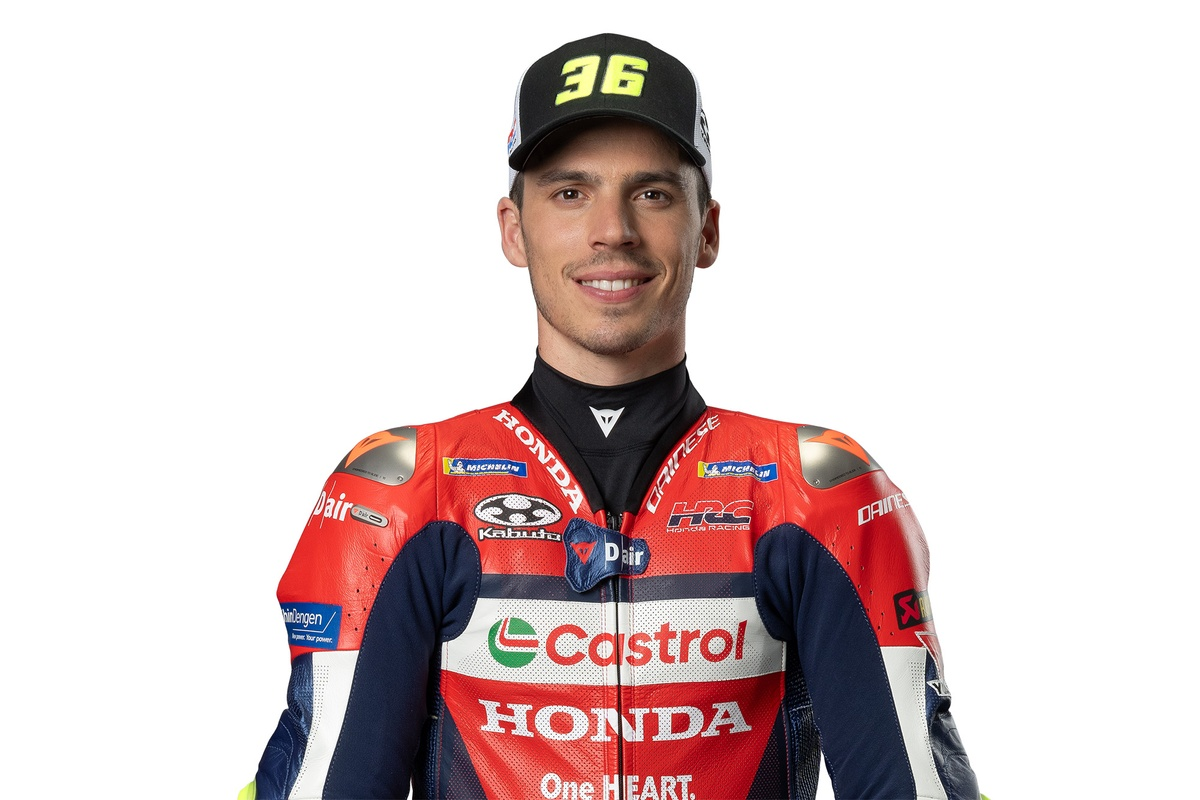
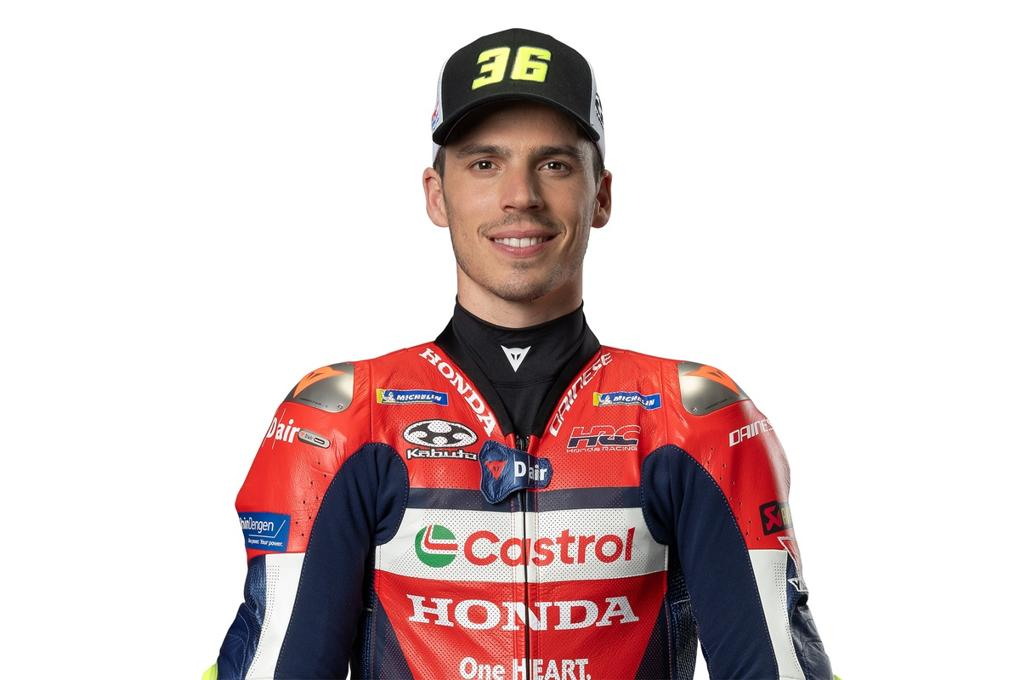
Cambio foto MIR

diff --git a/piloto.html b/piloto.html
@@ -45,8 +45,8 @@
     <picture>
         <source srcset="multimedia/piloto/joan-mir-movil.jpg" media="(max-width: 465px)" width="292" height="194"/>
         <source srcset="multimedia/piloto/joan-mir-tablet.jpg" media="(max-width: 799px)" width="675" height="448"/>
-        <source srcset="multimedia/piloto/joan-mir.jpg" media="(min-width: 800px)" width="1200" height="800"/>
-        <img src="multimedia/piloto/joan-mir.jpg" alt = "Imagen de Joan Mir" width="1200" height="800"/>
+        <source srcset="multimedia/piloto/joan-mir.jpg" media="(min-width: 800px)" width="1020" height="680"/>
+        <img src="multimedia/piloto/joan-mir.jpg" alt = "Imagen de Joan Mir" width="1020" height="680"/>
     </picture>
 
     <!--Ficha de información de Joan Mir-->

diff --git a/multimedia/piloto/resize.py b/multimedia/piloto/resize.py
@@ -5,9 +5,9 @@ image_path = "joan-mir.jpg"  # Cambia esto por la ruta de tu imagen
 img = Image.open(image_path)
 
 # Redimensiona la imagen (por ejemplo, a 800x600 píxeles)
-new_width = 675
-new_height = 448
+new_width = 1020
+new_height = 680
 resized_img = img.resize((new_width, new_height))
 
 # Guarda la nueva imagen redimensionada
-resized_img.save("joan-mir-tablet.jpg")  # El nombre del archivo nuevo
+resized_img.save("joan-mir.jpg")  # El nombre del archivo nuevo
